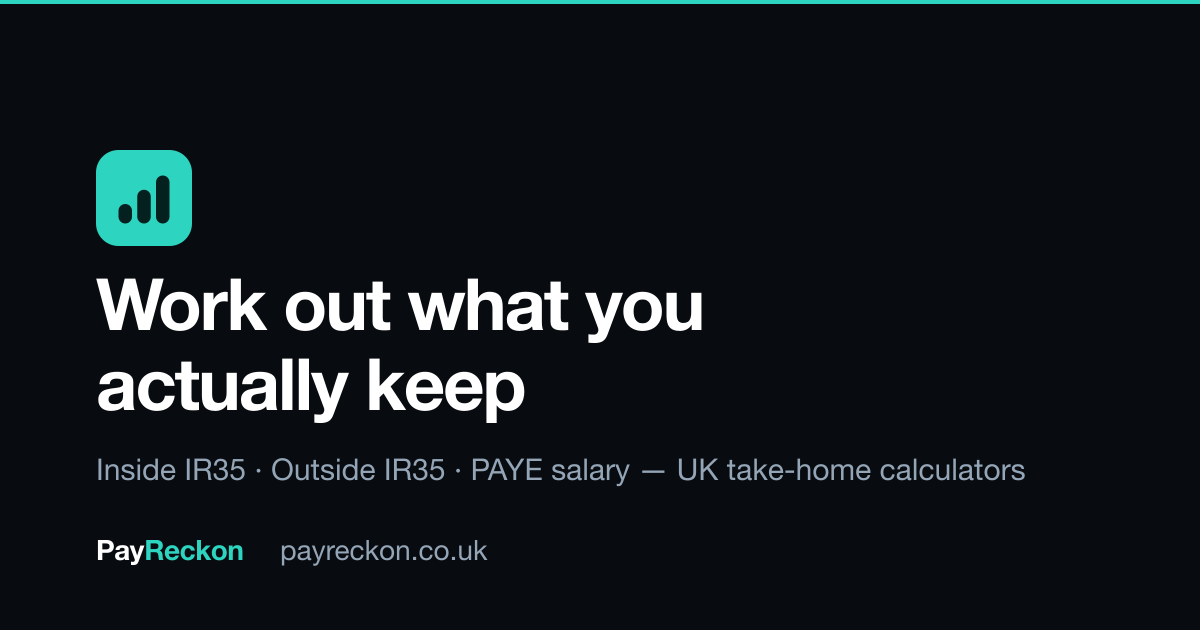
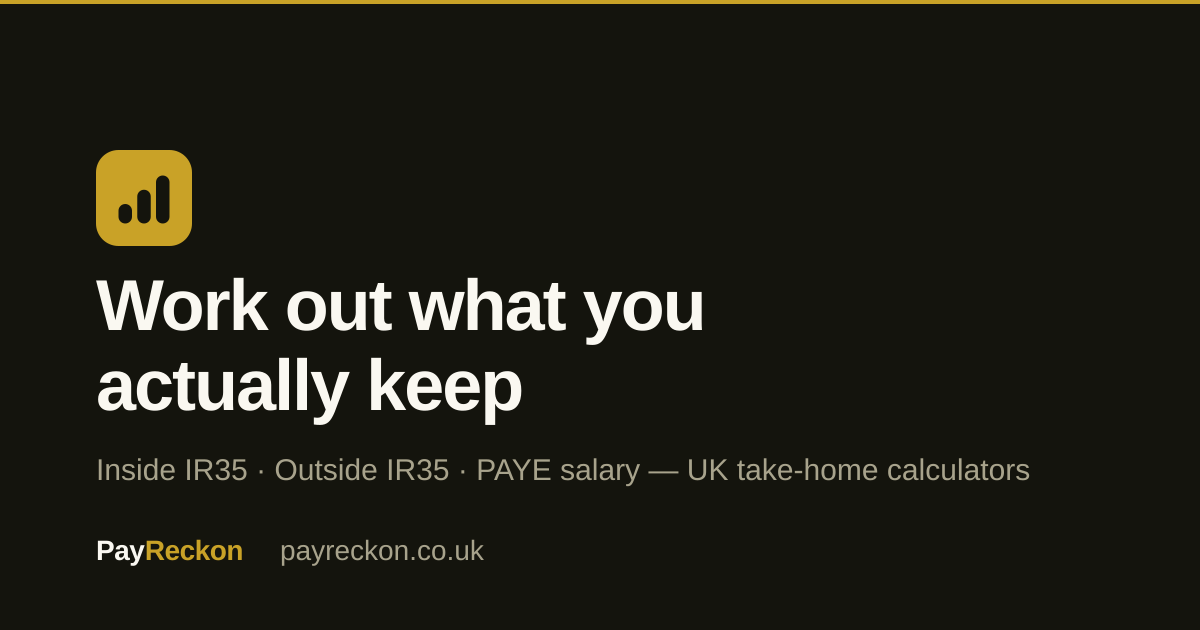
Re-theme to match the Invision Solutions brand system
Swaps the dark teal theme for a cream/white surface stack with a gold
accent, near-black ink, and Space Grotesk headlines alongside Geist Sans
body text. Primary buttons and the segmented control's selected state
moved to a solid ink pill (cream text), matching the reference site's
button convention, with gold reserved for eyebrows, links and tags.

The chart's categorical palette, previously validated only for the dark
surface, is retuned for contrast on white and no longer overlaps the gold
accent hue. Semantic status colours darkened for light-background
legibility. All logo, icon, favicon and social card assets regenerated
from scripts/generate-brand-assets.mjs with the new palette.

diff --git a/app/page.tsx b/app/page.tsx
@@ -22,10 +22,10 @@ export default function Home() {
     <>
       <section className="border-b border-line">
         <div className="mx-auto w-full max-w-6xl px-5 py-20 text-center">
-          <p className="text-sm font-medium text-accent">
+          <p className="font-mono text-xs font-medium uppercase tracking-widest text-accent">
             Tax years {TAX_YEARS[0]} to {CURRENT_TAX_YEAR}
           </p>
-          <h1 className="mx-auto mt-3 max-w-3xl text-4xl font-semibold tracking-tight text-ink sm:text-5xl">
+          <h1 className="font-display mx-auto mt-3 max-w-3xl text-4xl font-bold tracking-tight text-ink sm:text-5xl">
             Work out what you actually keep
           </h1>
           <p className="mx-auto mt-5 max-w-2xl text-lg leading-relaxed text-muted">
@@ -36,13 +36,13 @@ export default function Home() {
           <div className="mt-8 flex flex-wrap items-center justify-center gap-3">
             <Link
               href="/calculators"
-              className="rounded-lg bg-accent px-5 py-3 text-sm font-semibold text-accent-ink transition-colors hover:bg-accent-strong"
+              className="rounded-full bg-ink px-5 py-3 text-sm font-semibold text-bg transition-opacity hover:opacity-90"
             >
               Choose a calculator
             </Link>
             <Link
               href="/guides/ir35"
-              className="rounded-lg border border-line px-5 py-3 text-sm font-medium text-ink transition-colors hover:border-line-strong"
+              className="rounded-full border border-line px-5 py-3 text-sm font-medium text-ink transition-colors hover:border-line-strong"
             >
               What is IR35?
             </Link>
@@ -65,7 +65,7 @@ export default function Home() {
       </section>
 
       <section className="mx-auto w-full max-w-6xl px-5 pb-8">
-        <h2 className="text-2xl font-semibold tracking-tight text-ink">
+        <h2 className="font-display text-2xl font-bold tracking-tight text-ink">
           Three calculators, one tax engine
         </h2>
         <p className="mt-2 max-w-2xl text-sm leading-relaxed text-muted">
@@ -81,7 +81,7 @@ export default function Home() {
               href={`/calculators/${calc.slug}`}
               className="group flex flex-col rounded-2xl border border-line bg-surface p-6 transition-colors hover:border-accent"
             >
-              <span className="text-xs font-medium uppercase tracking-wider text-accent">
+              <span className="font-mono text-xs font-medium uppercase tracking-widest text-accent">
                 {calc.subtitle}
               </span>
               <span className="mt-2 text-lg font-semibold text-ink">{calc.name}</span>

diff --git a/app/brand/page.tsx b/app/brand/page.tsx
@@ -12,7 +12,7 @@ export default function BrandPage() {
   return (
     <div className="mx-auto w-full max-w-6xl px-5 py-16">
       <header className="max-w-2xl">
-        <h1 className="text-3xl font-semibold tracking-tight text-ink sm:text-4xl">
+        <h1 className="font-display text-3xl font-bold tracking-tight text-ink sm:text-4xl">
           Brand assets
         </h1>
         <p className="mt-4 text-base leading-relaxed text-muted">
@@ -40,7 +40,7 @@ export default function BrandPage() {
                 >
                   <div
                     className={`flex h-32 items-center justify-center p-6 ${
-                      asset.preview === "dark" ? "bg-inset" : "bg-[#f4f7fa]"
+                      asset.preview === "dark" ? "bg-[#14140d]" : "bg-inset"
                     }`}
                   >
                     <Image
@@ -58,7 +58,7 @@ export default function BrandPage() {
                     <a
                       href={`/brand/${asset.file}`}
                       download
-                      className="mt-3 inline-block w-fit rounded-lg border border-line px-3 py-1.5 text-xs font-medium text-accent transition-colors hover:border-accent"
+                      className="mt-3 inline-block w-fit rounded-full border border-line px-3 py-1.5 text-xs font-medium text-accent transition-colors hover:border-accent"
                     >
                       Download
                     </a>
@@ -72,7 +72,7 @@ export default function BrandPage() {
         <section>
           <h2 className="text-xl font-semibold tracking-tight text-ink">Colours</h2>
           <p className="mt-1.5 max-w-2xl text-sm leading-relaxed text-muted">
-            The teal changes between backgrounds — the lighter tone lacks contrast
+            The gold changes between backgrounds — the brighter tone lacks contrast
             on white, so the deeper one is used there.
           </p>
           <div className="mt-5 grid gap-3 sm:grid-cols-2 lg:grid-cols-3">

diff --git a/app/layout.tsx b/app/layout.tsx
@@ -1,11 +1,16 @@
 import type { Metadata } from "next";
-import { Geist, Geist_Mono } from "next/font/google";
+import { Geist, Geist_Mono, Space_Grotesk } from "next/font/google";
 import { Footer } from "../components/layout/Footer";
 import { Header } from "../components/layout/Header";
 import "./globals.css";
 
 const geistSans = Geist({ variable: "--font-geist-sans", subsets: ["latin"] });
 const geistMono = Geist_Mono({ variable: "--font-geist-mono", subsets: ["latin"] });
+const spaceGrotesk = Space_Grotesk({
+  variable: "--font-space-grotesk",
+  subsets: ["latin"],
+  weight: ["500", "600", "700"],
+});
 
 export const metadata: Metadata = {
   metadataBase: new URL("https://www.payreckon.co.uk"),
@@ -36,12 +41,12 @@ export default function RootLayout({
   return (
     <html
       lang="en-GB"
-      className={`${geistSans.variable} ${geistMono.variable} h-full`}
+      className={`${geistSans.variable} ${geistMono.variable} ${spaceGrotesk.variable} h-full`}
     >
       <body className="flex min-h-full flex-col">
         <a
           href="#main"
-          className="sr-only focus:not-sr-only focus:absolute focus:left-4 focus:top-4 focus:z-50 focus:rounded-lg focus:bg-accent focus:px-4 focus:py-2 focus:text-sm focus:font-semibold focus:text-accent-ink"
+          className="sr-only focus:not-sr-only focus:absolute focus:left-4 focus:top-4 focus:z-50 focus:rounded-full focus:bg-ink focus:px-4 focus:py-2 focus:text-sm focus:font-semibold focus:text-bg"
         >
           Skip to content
         </a>

diff --git a/app/globals.css b/app/globals.css
@@ -3,29 +3,30 @@
 /**
  * PayReckon design tokens.
  *
- * A deep ink base with a teal accent. Surfaces step up in lightness to build
- * hierarchy (page -> panel -> inset), and every colour is declared here so the
- * palette can be reskinned in one place.
+ * A warm cream base with a gold accent, matching the Invision Solutions
+ * brand system. Surfaces step down in lightness off the cream page (page ->
+ * panel -> inset), and every colour is declared here so the palette can be
+ * reskinned in one place.
  */
 :root {
-  --pr-bg: #080b0f;
-  --pr-surface: #10161e;
-  --pr-surface-2: #161e28;
-  --pr-inset: #0c1117;
-  --pr-border: #22303d;
-  --pr-border-strong: #33475a;
+  --pr-bg: #faf8f1;
+  --pr-surface: #ffffff;
+  --pr-surface-2: #f2efe2;
+  --pr-inset: #f5f2e7;
+  --pr-border: #e6e1d0;
+  --pr-border-strong: #d4cdb3;
 
-  --pr-text: #e8eef4;
-  --pr-muted: #93a5b6;
-  --pr-faint: #64798c;
+  --pr-text: #14140d;
+  --pr-muted: #6d6b58;
+  --pr-faint: #9c9880;
 
-  --pr-accent: #2dd4bf;
-  --pr-accent-strong: #14b8a6;
-  --pr-accent-ink: #04211f;
+  --pr-accent: #c9a227;
+  --pr-accent-strong: #8a6d1a;
+  --pr-accent-ink: #14140d;
 
-  --pr-positive: #4ade80;
-  --pr-warning: #fbbf24;
-  --pr-danger: #f87171;
+  --pr-positive: #157a3d;
+  --pr-warning: #9a5b0f;
+  --pr-danger: #b91c1c;
 }
 
 @theme inline {
@@ -47,6 +48,7 @@
 
   --font-sans: var(--font-geist-sans);
   --font-mono: var(--font-geist-mono);
+  --font-display: var(--font-space-grotesk);
 }
 
 body {

diff --git a/app/guides/[slug]/page.tsx b/app/guides/[slug]/page.tsx
@@ -32,7 +32,7 @@ export default async function GuidePage({
       <div className="grid gap-10 lg:grid-cols-[minmax(0,1fr)_16rem]">
         <article className="max-w-2xl">
           <p className="text-sm text-faint">{guide.readingTime}</p>
-          <h1 className="mt-2 text-3xl font-semibold tracking-tight text-ink sm:text-4xl">
+          <h1 className="font-display mt-2 text-3xl font-bold tracking-tight text-ink sm:text-4xl">
             {guide.title}
           </h1>
           <p className="mt-4 text-lg leading-relaxed text-muted">{guide.summary}</p>
@@ -64,7 +64,7 @@ export default async function GuidePage({
               </p>
               <Link
                 href={`/calculators/${guide.relatedCalculator.slug}`}
-                className="mt-4 inline-block rounded-lg bg-accent px-4 py-2.5 text-sm font-semibold text-accent-ink transition-colors hover:bg-accent-strong"
+                className="mt-4 inline-block rounded-full bg-ink px-4 py-2.5 text-sm font-semibold text-bg transition-opacity hover:opacity-90"
               >
                 {guide.relatedCalculator.label} →
               </Link>

diff --git a/components/calculator/BreakdownChart.tsx b/components/calculator/BreakdownChart.tsx
@@ -4,23 +4,22 @@ import { useId, useState } from "react";
 import { formatGBP, formatPercent } from "../../lib/format";
 
 /**
- * Categorical palette, validated for this surface (#10161E) with
- * scripts/validate_palette.js: all eight slots sit inside the dark lightness
- * band, clear the chroma floor, hold >= 3:1 contrast, and the worst adjacent
- * pair separates at CVD ΔE 8.4 / normal-vision 19.3.
+ * Categorical palette, retuned for the cream/white surface: eight distinct,
+ * mid-to-dark hues that hold contrast on white, none overlapping the brand
+ * gold accent so a chart segment is never mistaken for a highlighted value.
  *
  * Slots are assigned by ENTITY below, never by rank, so a segment keeps its
  * colour whether or not other segments are present.
  */
 const SLOTS = [
-  "#3987e5",
-  "#d95926",
-  "#199e70",
-  "#c98500",
-  "#d55181",
-  "#008300",
-  "#9085e9",
-  "#e66767",
+  "#2563eb",
+  "#c2410c",
+  "#15803d",
+  "#7c3aed",
+  "#be185d",
+  "#0f766e",
+  "#4338ca",
+  "#78716c",
 ] as const;
 
 /**

diff --git a/lib/content/brandAssets.ts b/lib/content/brandAssets.ts
@@ -135,10 +135,10 @@ export const BRAND_GROUPS: BrandGroup[] = [
 ];
 
 export const BRAND_COLOURS = [
-  { name: "Teal", hex: "#2DD4BF", use: "Primary accent, on dark backgrounds" },
-  { name: "Deep teal", hex: "#0D9488", use: "Accent on light backgrounds" },
-  { name: "Mark ink", hex: "#04211F", use: "The bars inside the icon" },
-  { name: "Ink", hex: "#080B0F", use: "Page background" },
-  { name: "Surface", hex: "#10161E", use: "Panels and cards" },
-  { name: "Text", hex: "#E8EEF4", use: "Body text on dark" },
+  { name: "Gold", hex: "#C9A227", use: "Primary accent, on dark backgrounds" },
+  { name: "Deep gold", hex: "#8A6D1A", use: "Accent on light backgrounds" },
+  { name: "Ink", hex: "#14140D", use: "Body text, and the bars inside the icon" },
+  { name: "Cream", hex: "#FAF8F1", use: "Page background" },
+  { name: "Surface", hex: "#FFFFFF", use: "Panels and cards" },
+  { name: "Muted", hex: "#6D6B58", use: "Secondary body text" },
 ];

diff --git a/components/calculator/CalculatorShell.tsx b/components/calculator/CalculatorShell.tsx
@@ -20,8 +20,10 @@ export function CalculatorShell({
   return (
     <div className="mx-auto w-full max-w-6xl px-5 py-12">
       <header className="max-w-2xl">
-        <p className="text-sm font-medium text-accent">{eyebrow}</p>
-        <h1 className="mt-2 text-3xl font-semibold tracking-tight text-ink sm:text-4xl">
+        <p className="font-mono text-xs font-medium uppercase tracking-widest text-accent">
+          {eyebrow}
+        </p>
+        <h1 className="font-display mt-2 text-3xl font-bold tracking-tight text-ink sm:text-4xl">
           {title}
         </h1>
         <p className="mt-3 text-base leading-relaxed text-muted">{description}</p>

diff --git a/app/calculators/page.tsx b/app/calculators/page.tsx
@@ -13,7 +13,7 @@ export default function CalculatorsPage() {
   return (
     <div className="mx-auto w-full max-w-6xl px-5 py-16">
       <header className="max-w-2xl">
-        <h1 className="text-3xl font-semibold tracking-tight text-ink sm:text-4xl">
+        <h1 className="font-display text-3xl font-bold tracking-tight text-ink sm:text-4xl">
           Contractor calculators
         </h1>
         <p className="mt-4 text-base leading-relaxed text-muted">

diff --git a/components/layout/Header.tsx b/components/layout/Header.tsx
@@ -43,7 +43,7 @@ export function Header() {
 
         <Link
           href="/calculators"
-          className="ml-auto hidden rounded-lg bg-accent px-4 py-2 text-sm font-semibold text-accent-ink transition-colors hover:bg-accent-strong md:block"
+          className="ml-auto hidden rounded-full bg-ink px-4 py-2 text-sm font-semibold text-bg transition-opacity hover:opacity-90 md:block"
         >
           Run a calculation
         </Link>

diff --git a/app/guides/page.tsx b/app/guides/page.tsx
@@ -12,7 +12,7 @@ export default function GuidesPage() {
   return (
     <div className="mx-auto w-full max-w-6xl px-5 py-16">
       <header className="max-w-2xl">
-        <h1 className="text-3xl font-semibold tracking-tight text-ink sm:text-4xl">
+        <h1 className="font-display text-3xl font-bold tracking-tight text-ink sm:text-4xl">
           Guides
         </h1>
         <p className="mt-4 text-base leading-relaxed text-muted">

diff --git a/components/ui/SegmentedControl.tsx b/components/ui/SegmentedControl.tsx
@@ -75,7 +75,7 @@ export function SegmentedControl<T extends string>({
               size === "sm" ? "px-2 py-1.5 text-xs sm:px-2.5" : "px-2.5 py-2 text-sm sm:px-3"
             } ${full ? "flex-1 shrink" : ""} ${
               selected
-                ? "bg-accent text-accent-ink"
+                ? "bg-ink text-bg"
                 : "text-muted hover:text-ink"
             }`}
           >
